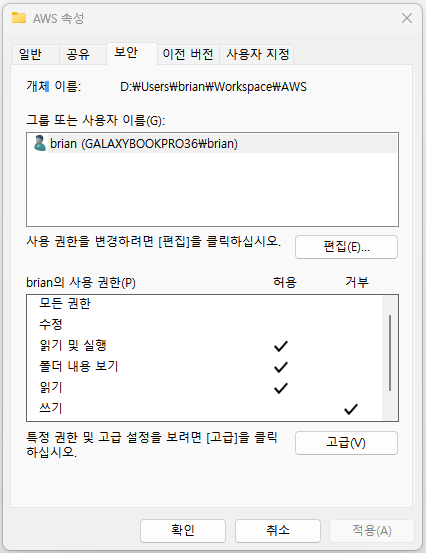
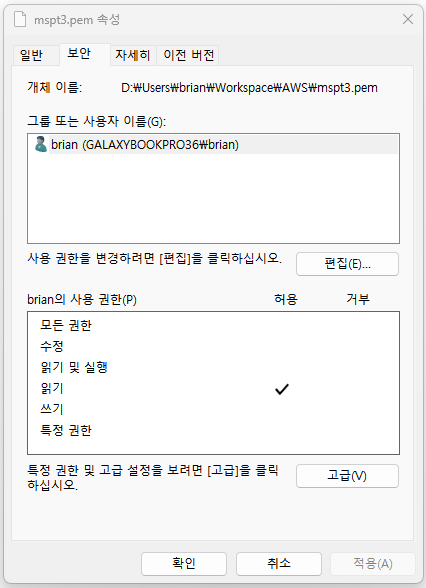
.

Changed region(s): [[0.0, 0.0, 1.0, 1.0], [0.6408, 0.6148, 0.6714, 0.7071]]

diff --git a/doc/[Hands-on] 01_Environment_Setup.md b/doc/[Hands-on] 01_Environment_Setup.md
@@ -200,22 +200,35 @@ AWS Console에서 EC2 > Instances 화면으로 이동합니다.
 ---
 
 (윈도우즈 환경인 경우 3번 절차 처리방법)
+터미널 프로그램(e.g. PowerShell)에서 다음과 같이 실행합니다.
+```shell
+> icacls.exe mspt3.pem /reset
+처리된 파일: mspt3.pem
+1 파일을 처리했으며 0 파일은 처리하지 못했습니다.
+> icacls.exe mspt3.pem /GRANT:R "$($env:USERNAME):(R)"
+처리된 파일: mspt3.pem
+1 파일을 처리했으며 0 파일은 처리하지 못했습니다.
+> icacls.exe mspt3.pem /inheritance:r
+처리된 파일: mspt3.pem
+1 파일을 처리했으며 0 파일은 처리하지 못했습니다.
+```
+> **명령어** : `icacls.exe mspt3.pem /reset`
+> **명령어** : `icacls.exe mspt3.pem /GRANT:R "$($env:USERNAME):(R)"`
+> **명령어** : `icacls.exe mspt3.pem /inheritance:r`
 
+![h:200](img/terminal3.png) 그림과 같이 mspt3.pem 파일의 권한을 변경하는 것입니다.
 
-
-![h:300](img/terminal3.png)
-윈도우 환경인 경우 3번 절차(chmod 400 mspt3.pem) 대신, 위 그림과 같이 mspt3.pem파일이 있는 디렉토리의 보안설정을 변경합니다.
-로그인한 사용자만 읽기 가능하도록 권한을 축소적용.
-
-> [오류: 보호되지 않는 프라이빗 키 파일](https://docs.aws.amazon.com/ko_kr/AWSEC2/latest/UserGuide/TroubleshootingInstancesConnecting.html#troubleshoot-unprotected-key) 참조.
+> 자세한 내용은은 [오류: 보호되지 않는 프라이빗 키 파일](https://docs.aws.amazon.com/ko_kr/AWSEC2/latest/UserGuide/TroubleshootingInstancesConnecting.html#troubleshoot-unprotected-key)의 내용을 참고하세요.
 ---
 
-![h:450](img/terminal4.png)
-정상적으로 접속되면 위와같은 화면이 표시됩니다.
+![h:500](img/terminal4.png)
+필요한 모든 절차를 거치고 정상적으로 접속되면 위와같은 화면이 표시됩니다.
 
 ---
 
 **[접속방법2]**  MobaXterm
+MobaXterm을 이용하여 VM Instance에 접속하는 방법입니다.
+
 ![h:450](img/mobaxterm1.png)
 MobaXterm을 실행하고 `Session` 버튼을 클릭합니다.
 
